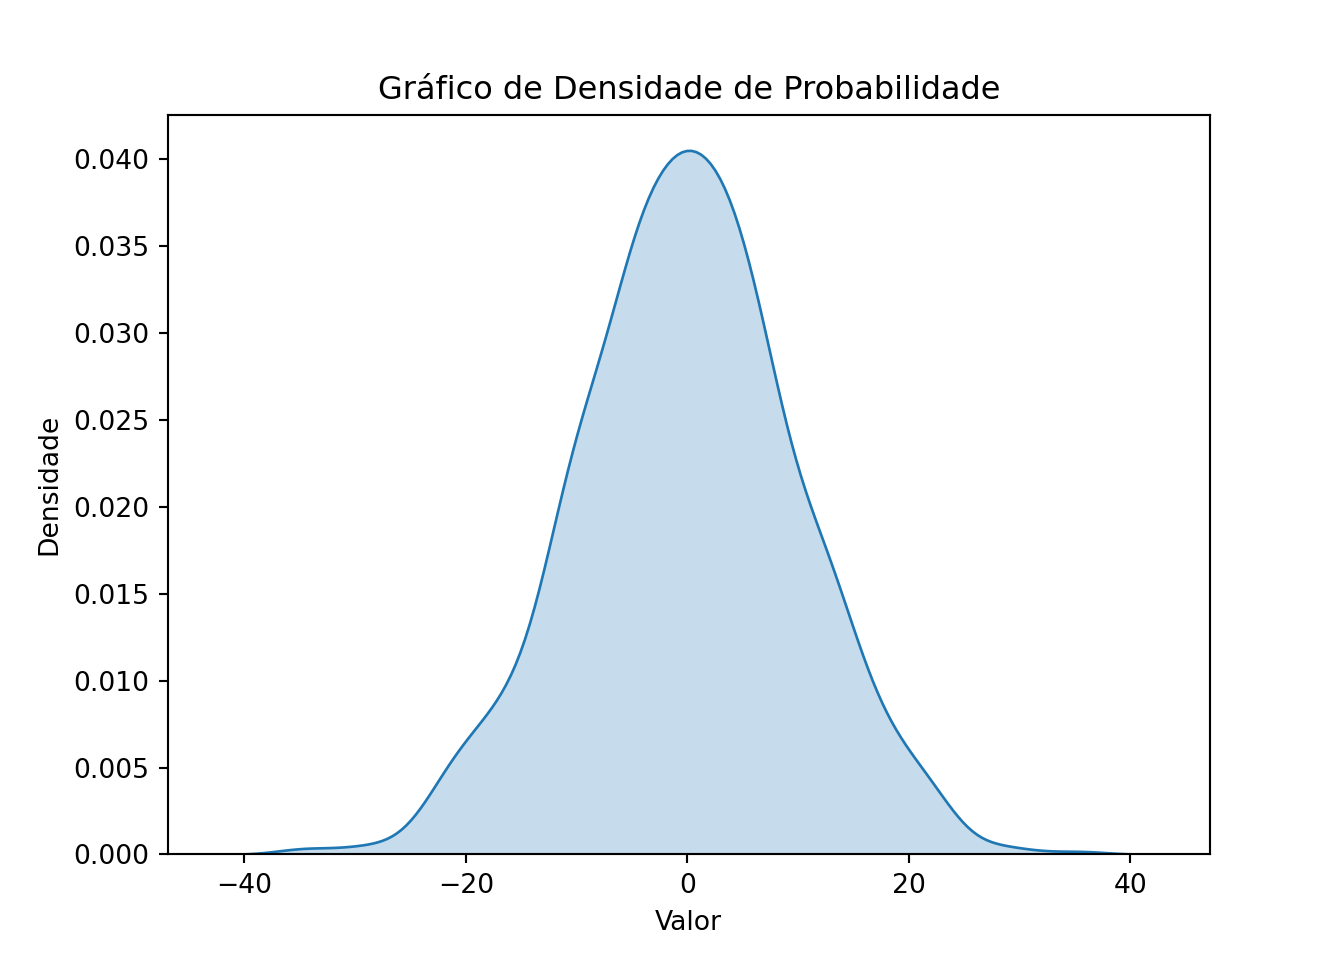
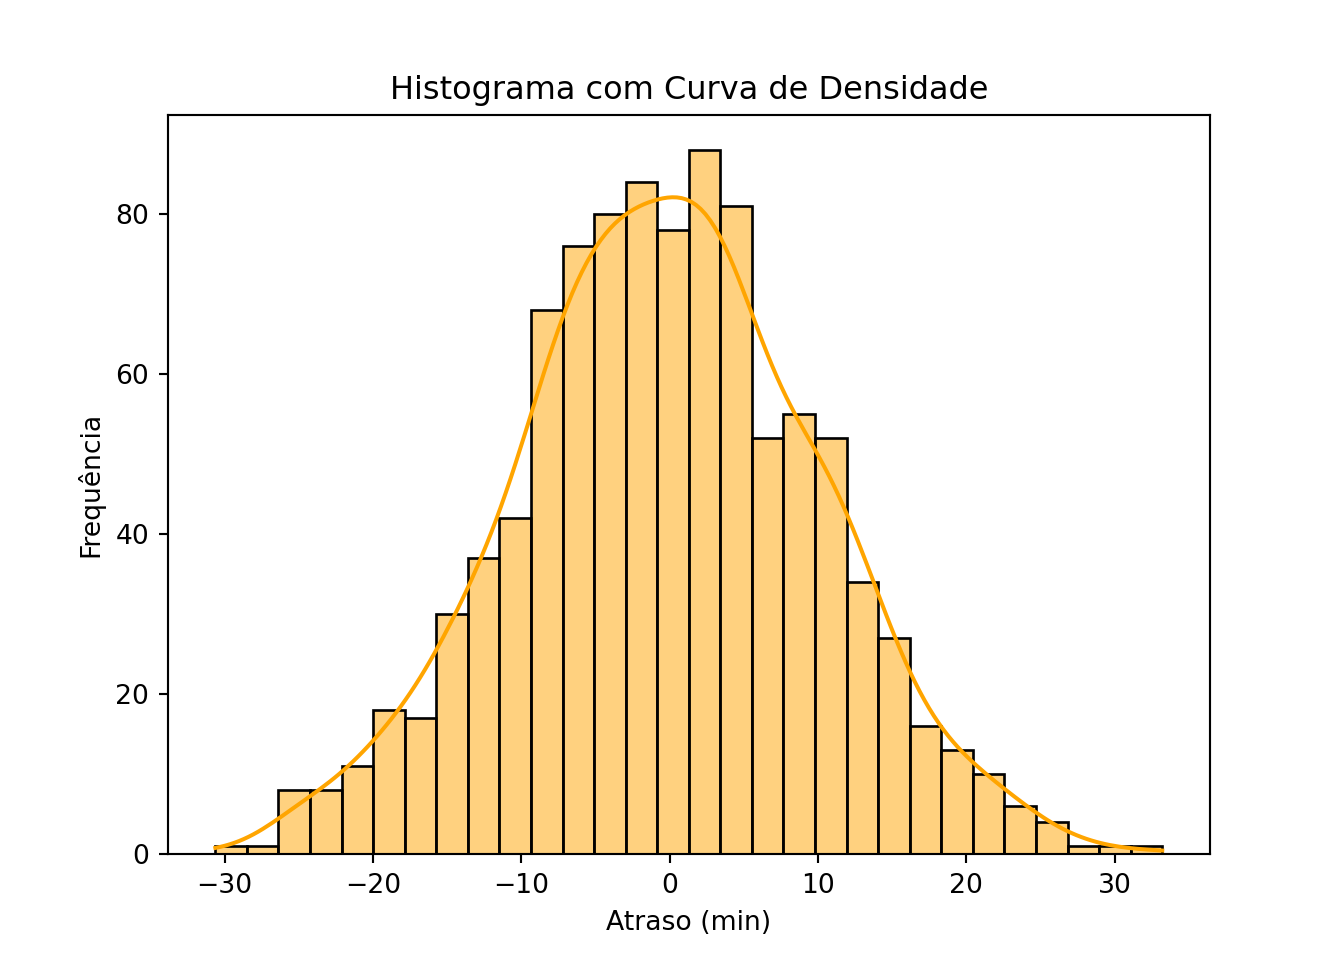
um pouco de progresso

diff --git a/content/post/2024-05-27-atrasados/index.md b/content/post/2024-05-27-atrasados/index.md
@@ -15,7 +15,7 @@ tags:
 
 Seguindo a jornada iniciada no primeiro post de resolver os desafios do data puzzles para tirar a poeira depois de alguns anos longe dos notebooks, neste post vamos explorar o desafio dos amigos atrasados.
 
-O nome do desafio é right on time, e tem como pré requisitos conhecimentos em fundamentos de estatística, distribuições de probabilidade, e capacidade de programar pequenas simulações "na unha". Parece divertido.
+O nome do desafio é right on time, e tem como pré requisitos conhecimentos em fundamentos de estatística, distribuições de probabilidade, e capacidade de programar pequenas simulações "na unha". Parece divertido, e além disso, outra coisa que busquei exercitar neste post foi a tradução de conceitos estatísticos em uma linguagem mais simples e acessível.
 
 O exercício é o seguinte: preciso marcar um compromisso com 4 amigos, e é importante que todos estejam presentes às 18h. Conhecendo meus amigos, sei que têm o hábito de se atrasar. Sei inclusive *como* - ou, ainda melhor, o *quanto* - eles costumam se atrasar. O tempo de chegada de cada um deles pode ser descrito como uma variável aleatória que segue uma distribuição normal, com média na hora marcada, e desvio padrão de 10 minutos. 
 
@@ -23,7 +23,11 @@ O exercício é o seguinte: preciso marcar um compromisso com 4 amigos, e é imp
 
 Eis a questão.
 
-Primeiro, vamos entender o que as informações disponibilizadas significam. Sabemos que a média do tempo de chegada é o tempo marcado, ou seja, o *atraso médio* é `\(\mu = \mathbf{0}min\)`. E também sabemos *desvio padrão* do atraso médio é de `\(\sigma = 10 min\)`. 
+Primeiro, vamos entender o que as informações disponibilizadas significam. Sabemos que a média do tempo de chegada é o tempo marcado, ou seja, o *atraso médio* é `\(\mu = \mathbf{0} min\)`. E também sabemos *desvio padrão* do atraso médio é de `\(\sigma = 10  min\)`. 
+
+Isso nos dá uma enorme previsibilidade sobre o comportamento dos nossos amigos, e já nos permite começar a fazer algumas simulações e visualizar nossas probabilidades.
+
+Vamos começar simulando 1000 encontros com um amigo, e em seguida montar um histograma dos atrasos nestes encontros.
 
 
 ```python
@@ -31,19 +35,38 @@ import seaborn as sns
 import matplotlib.pyplot as plt
 import numpy as np
 
-# Gerando dados de exemplo
-data = np.random.normal(loc=0, scale=10, size=1000)
+# Usamos o numpy para obter 1000 amostras de uma distribuição de atrasos
+np.random.seed(1568)
+atraso_medio = 0
+desvio_padrão = 10
+sims = 1000 # define o número de simulações
+atrasos = np.random.normal(loc=atraso_medio, scale=desvio_padrão, size=sims)
 
-# Criando o gráfico de densidade de probabilidade
-sns.kdeplot(data, shade=True)
+# Usamos o seaborn para plotar um histograma, com curva de densidade
+sns.histplot(atrasos, kde=True, bins=30, color='orange')
 
 # Configurando o título e os rótulos
-plt.title('Gráfico de Densidade de Probabilidade')
-plt.xlabel('Valor')
-plt.ylabel('Densidade')
+plt.title('Histograma com Curva de Densidade')
+plt.xlabel('Atraso (min)')
+plt.ylabel('Frequência')
 
 # Exibindo o gráfico
 plt.show()
 ```
 
 <img src="{{< blogdown/postref >}}index_files/figure-html/unnamed-chunk-1-1.png" width="672" />
+
+Aqui temos uma visão completa do que significam os parâmetros da distribuição. Percebemos que nosso amigo se atrasou com a mesma frequência que se adiantou. Embora na maior parte das vezes o atraso é próximo de 10min, em algumas situações eu tive de esperar mais de 30min.
+
+Qual a probabilidade dele se atrasar? Podemos ver o registro das nossas simulações e calcular em qual proporção dos encontros ele se atrasou para obtermos uma estimativa.
+
+
+```python
+contagem_atrasos = np.sum(atrasos > 0) 
+p_atraso = contagem_atrasos/sims
+print(f"Nosso amigo se atrasou em {contagem_atrasos} da simulações. Estimamos que a probabilidade de atraso é de {p_atraso*100}%")
+```
+
+Nosso amigo se atrasou em 488 da simulações. Estimamos que a probabilidade de atraso é de 48.8%
+
+E este, meus caros, foi o método de Monte Carlo em ação. 
